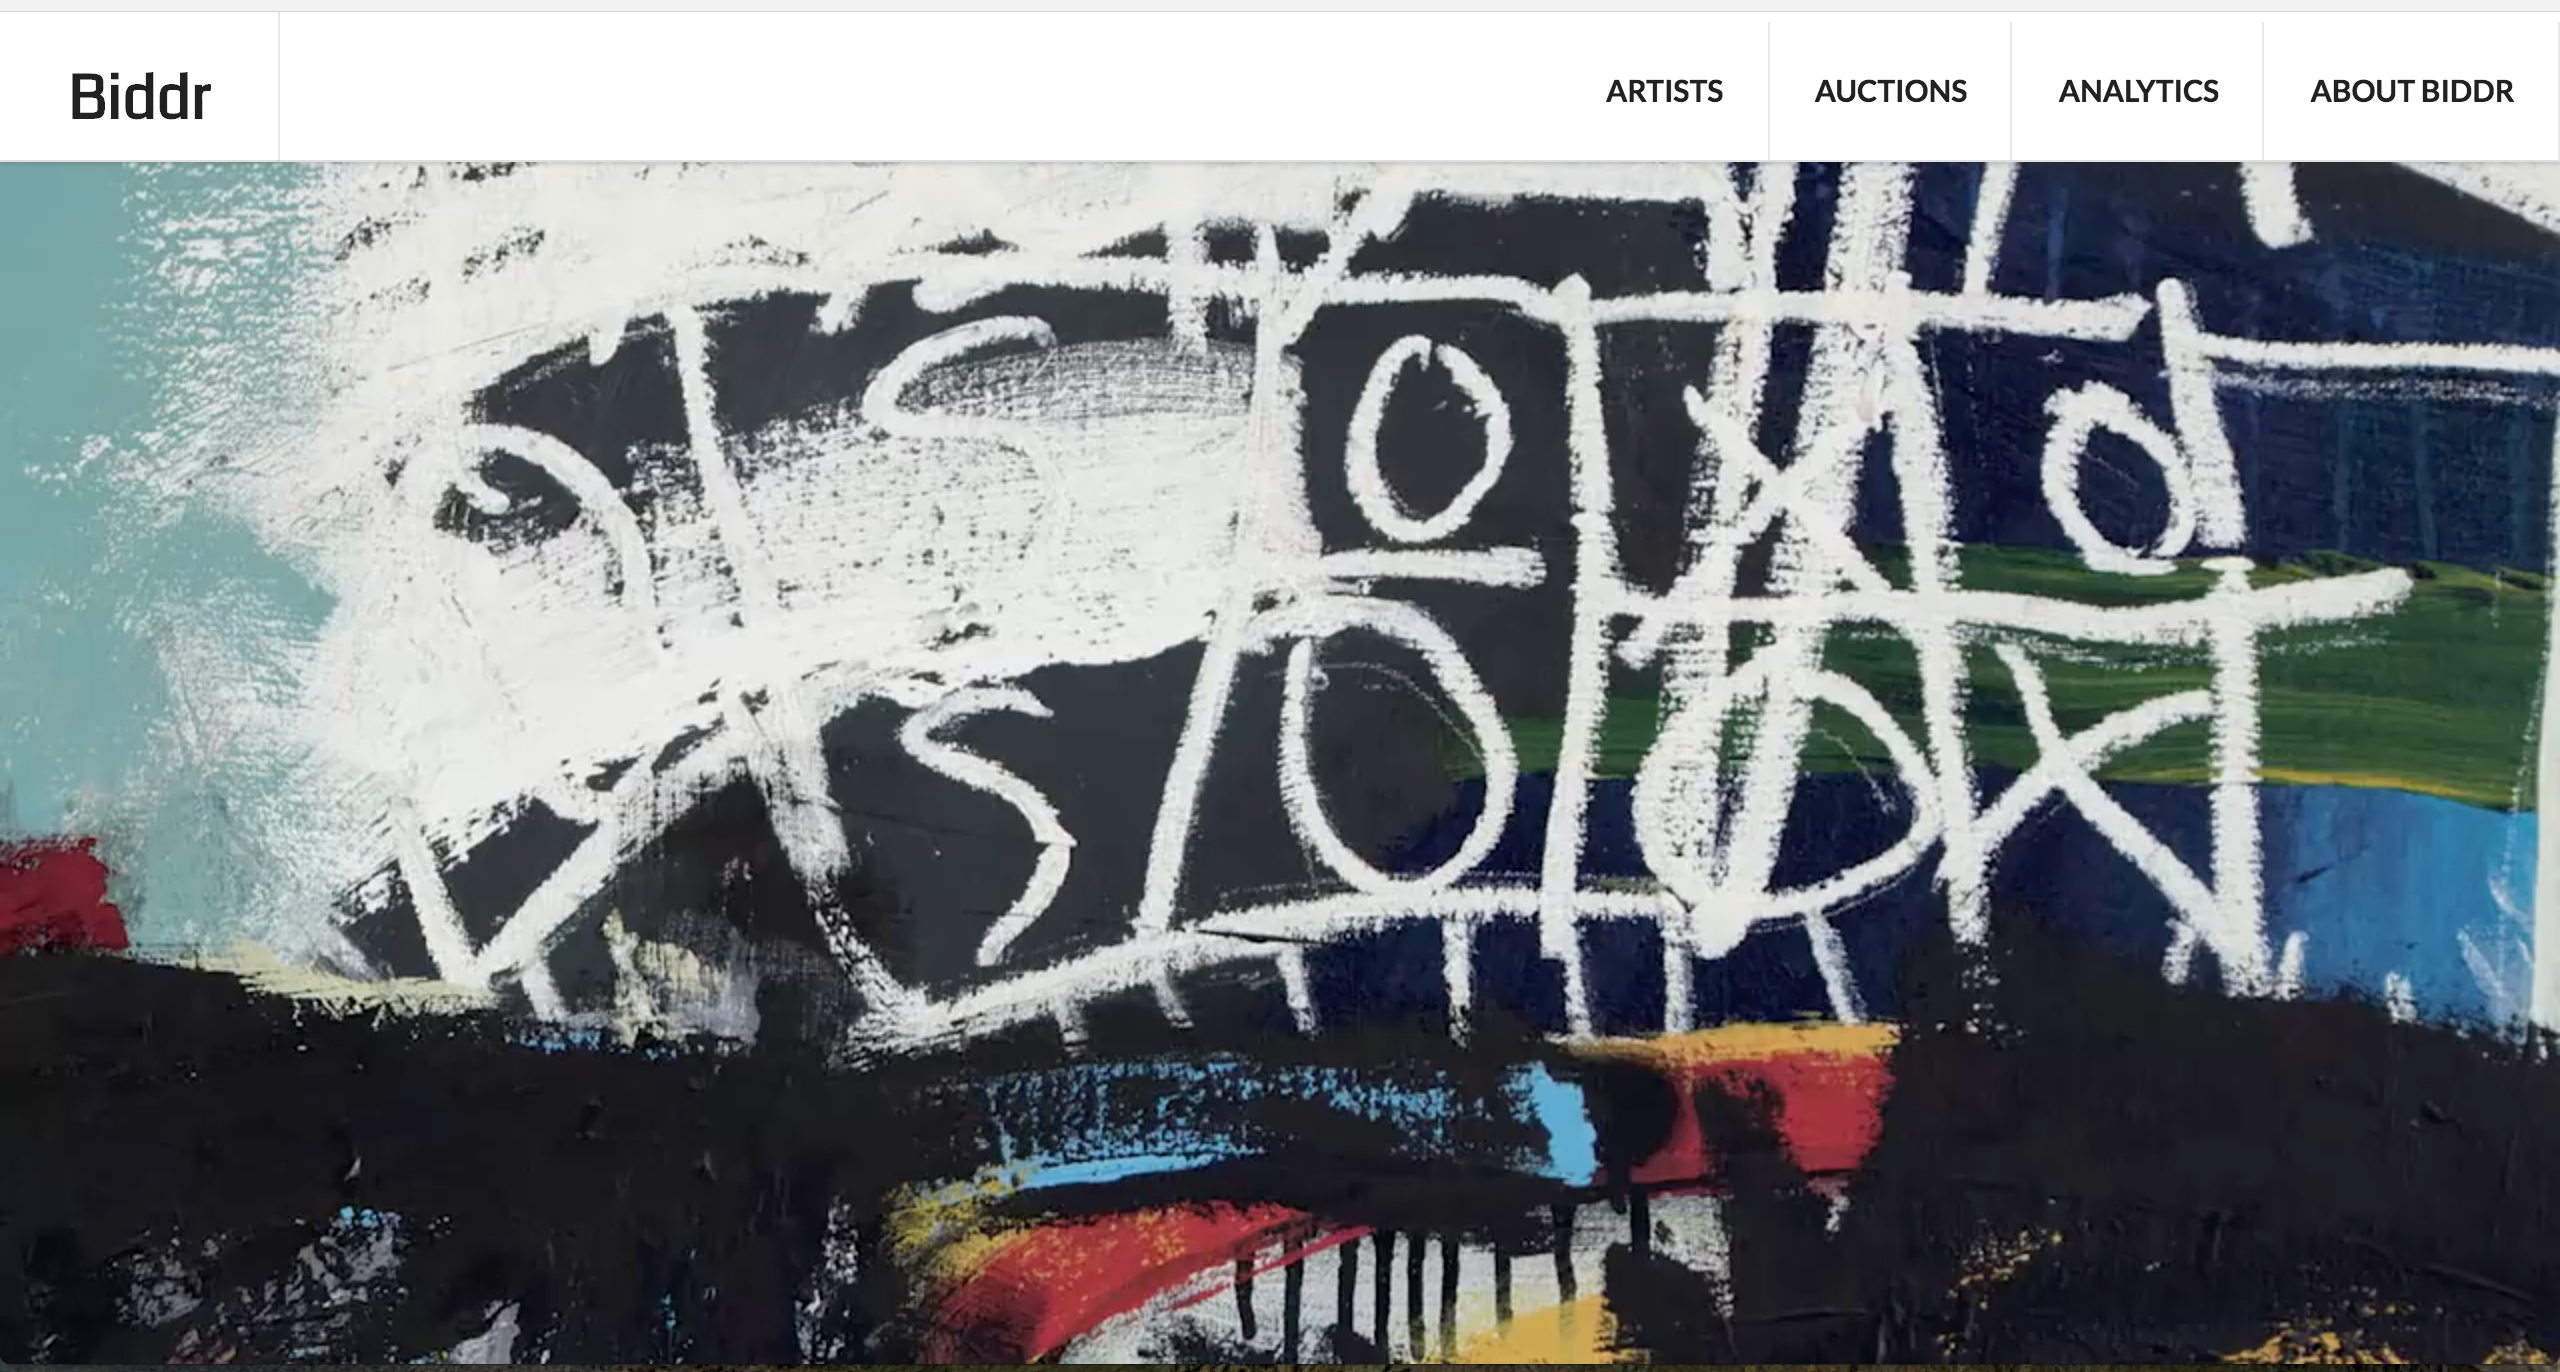
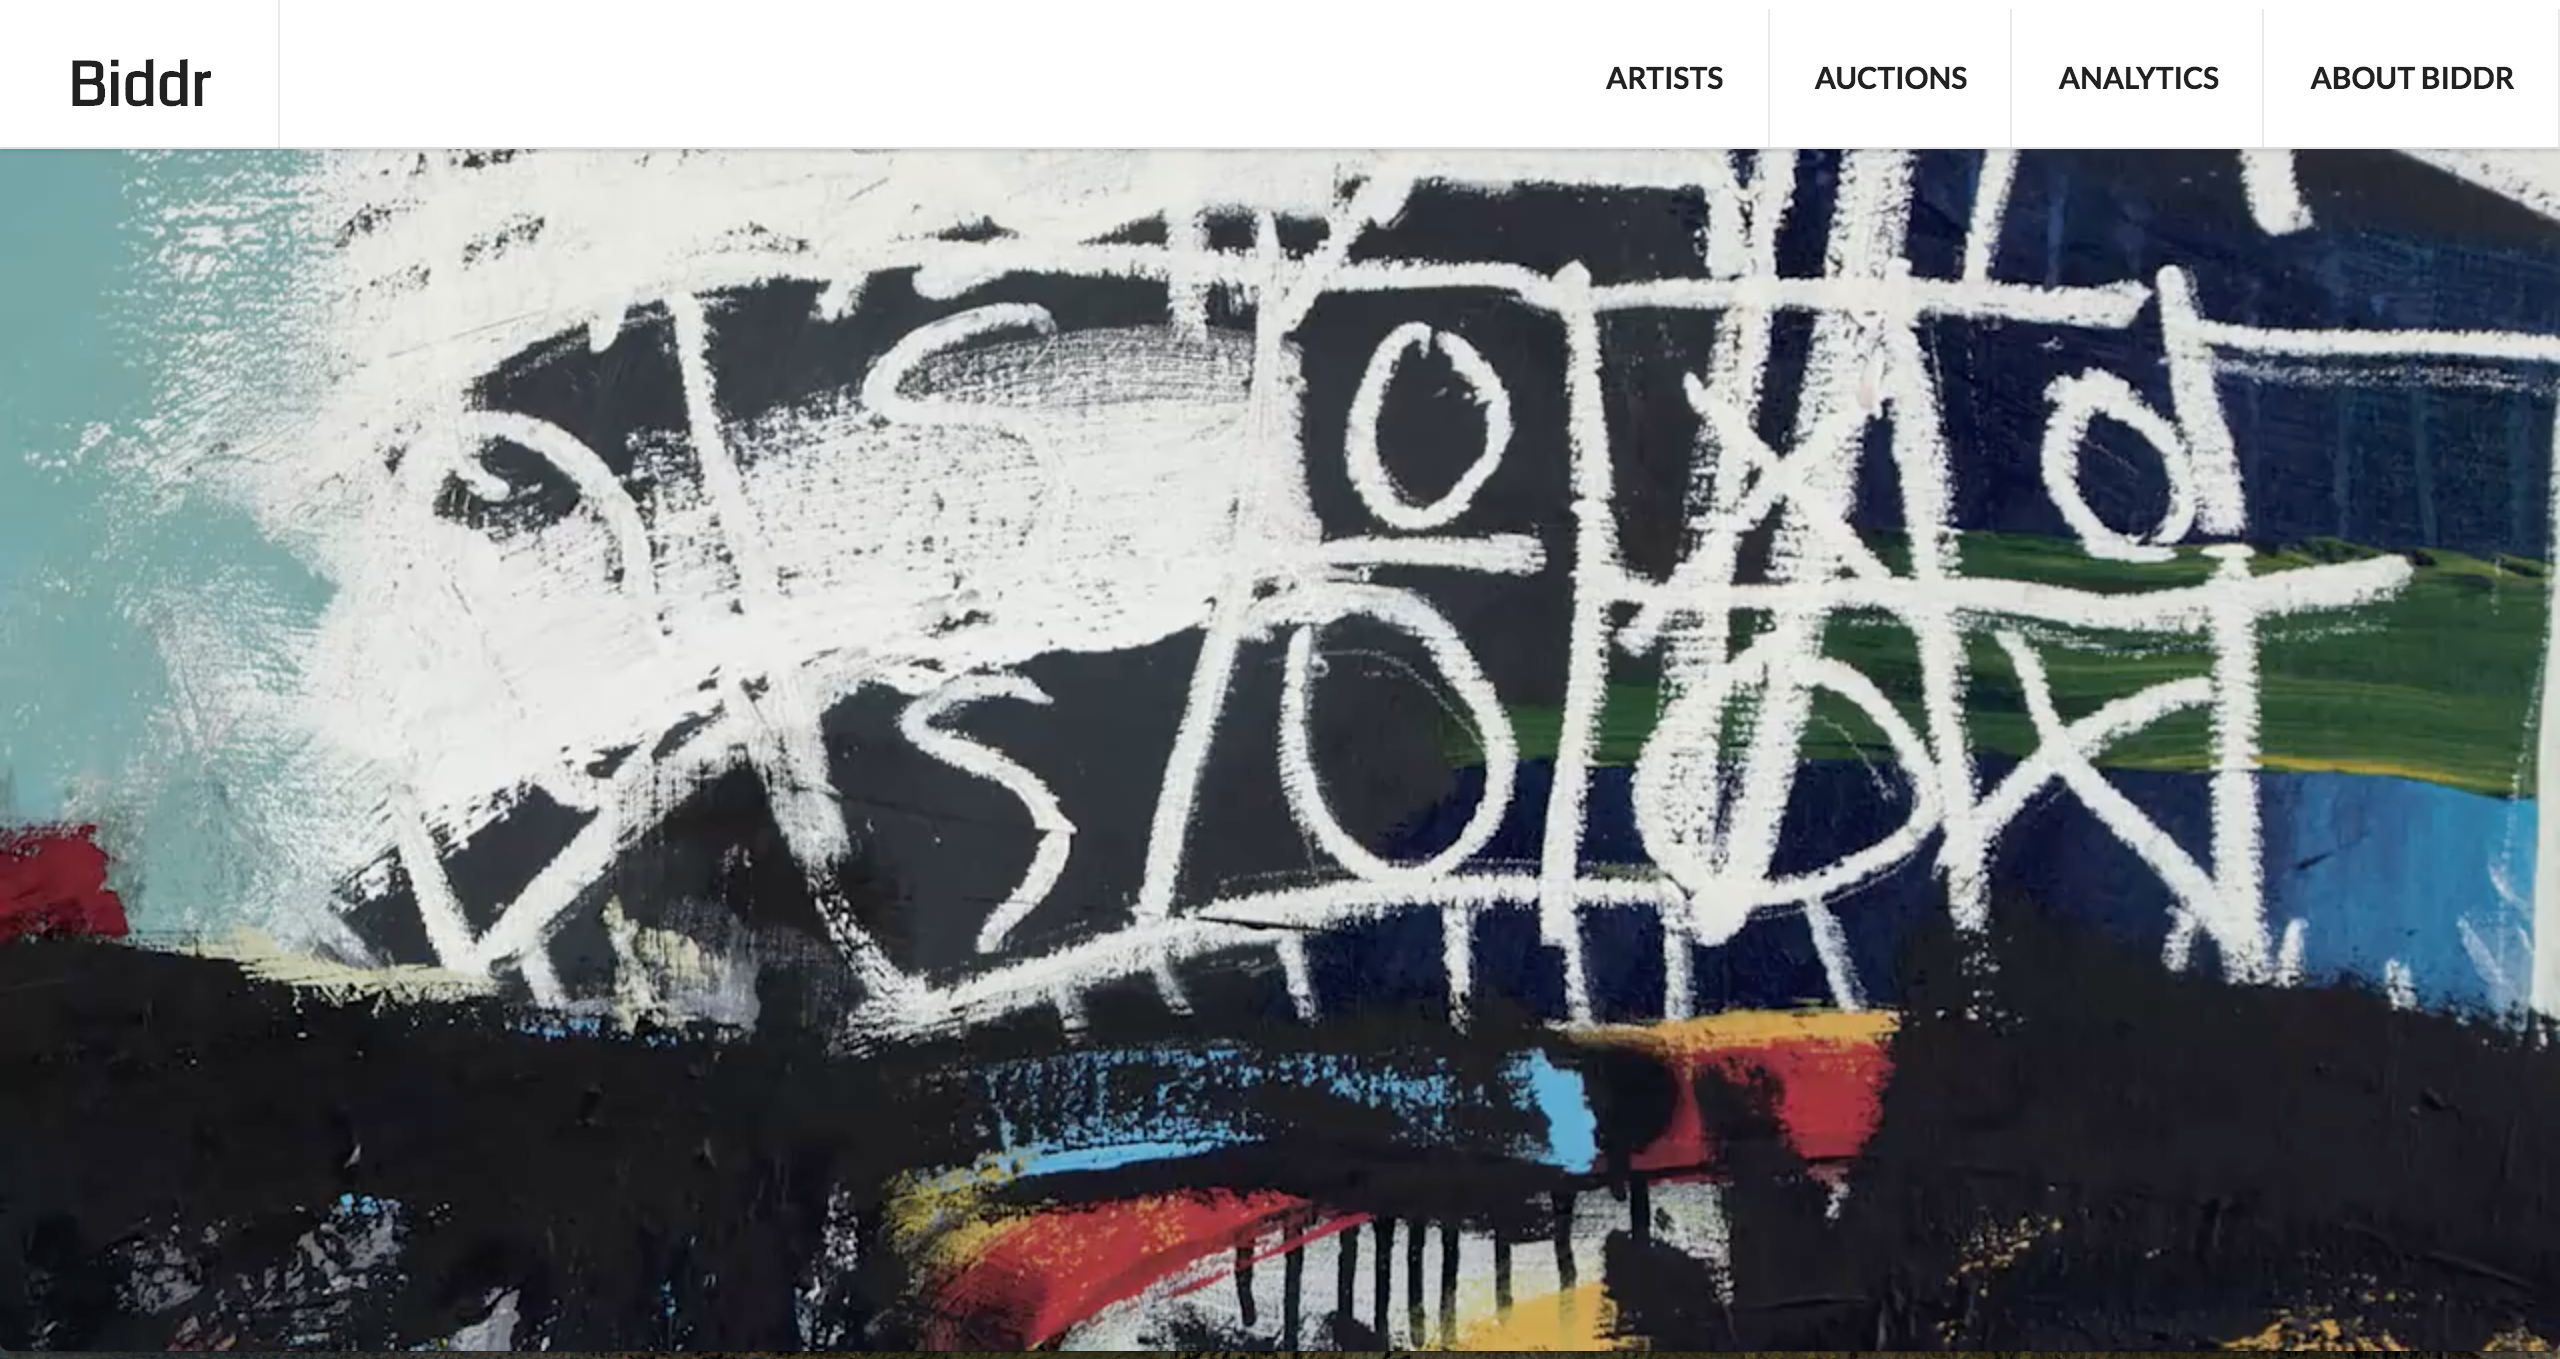
update font

diff --git a/index.html b/index.html
@@ -5,7 +5,7 @@
     <meta http-equiv="X-UA-Compatible" content="IE=edge">
     <meta name="viewport" content="width=device-width, initial-scale=1">
     <title>George Gore</title>
-    <link href="https://fonts.googleapis.com/css?family=Varela+Round" rel="stylesheet">
+    <link href="https://fonts.googleapis.com/css?family=Lato" rel="stylesheet">
     <link href="css/bootstrap.min.css" rel="stylesheet">
     <link href="https://netdna.bootstrapcdn.com/font-awesome/4.1.0/css/font-awesome.min.css" rel="stylesheet">
     <link href="css/flexslider.css" rel="stylesheet" >

diff --git a/css/styles.css b/css/styles.css
@@ -63,12 +63,12 @@ button,
 input,
 select,
 textarea {
-  font-family: "Varela Round", sans-serif;
+  font-family: "Lato", sans-serif;
 }
 /* * Addresses margins handled incorrectly in IE 6/7. */
 body {
   margin: 0;
-  font-family: "Varela Round", sans-serif;
+  font-family: "Lato", sans-serif;
 }
 /* ==========================================================================
 Links
